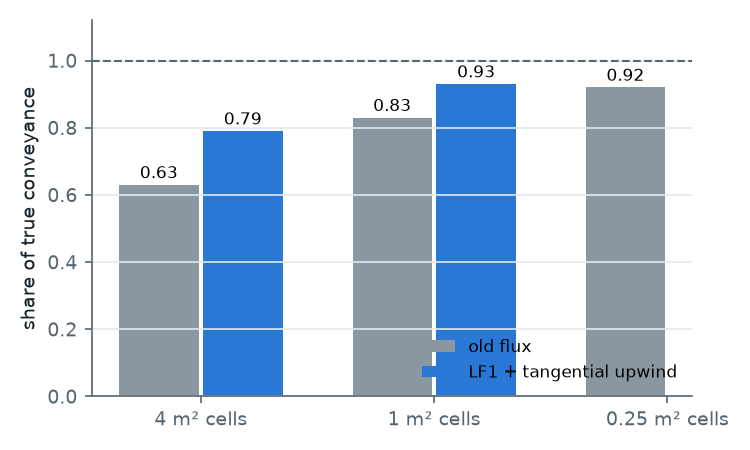
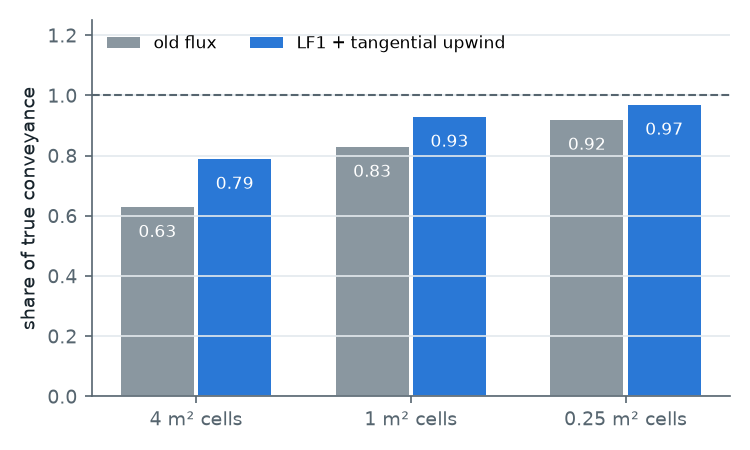
Subgrid status: straight-channel conveyance at 0.25 m2 with tangential upwind
trap_conv.py 0.25 --gpu LF=5 gives 0.97 of true conveyance (0.92 with the
old flux), so the band025TU reference is about 3% short, not 7%. Table,
text and the bias figure updated.

diff --git a/subgrid_bench/report_figures.py b/subgrid_bench/report_figures.py
@@ -455,18 +455,17 @@ def fig_cost(out):
 def fig_bias(out):
     fig, ax = plt.subplots(figsize=(5, 3))
     x = np.arange(3)
-    old, tu = [0.63, 0.83, 0.92], [0.79, 0.93, np.nan]
+    old, tu = [0.63, 0.83, 0.92], [0.79, 0.93, 0.97]
     ax.bar(x - 0.18, old, 0.34, color=OLD, label='old flux')
     ax.bar(x + 0.18, tu, 0.34, color=C1, label='LF1 + tangential upwind')
-    for i in range(3):
-        ax.text(x[i] - 0.18, old[i] + 0.02, f'{old[i]:.2f}', ha='center', fontsize=8)
-        if not np.isnan(tu[i]):
-            ax.text(x[i] + 0.18, tu[i] + 0.02, f'{tu[i]:.2f}', ha='center', fontsize=8)
+    for i in range(3):      # labels inside the bars: the tall ones would sit on the dashed line
+        ax.text(x[i] - 0.18, old[i] - 0.1, f'{old[i]:.2f}', ha='center', fontsize=8, color='white')
+        ax.text(x[i] + 0.18, tu[i] - 0.1, f'{tu[i]:.2f}', ha='center', fontsize=8, color='white')
     ax.axhline(1, color=MUTED, ls='--', lw=1)
     ax.set_xticks(x, ['4 m² cells', '1 m² cells', '0.25 m² cells'])
-    ax.set_ylim(0, 1.12)
+    ax.set_ylim(0, 1.25)
     ax.set_ylabel('share of true conveyance')
-    ax.legend(fontsize=8, loc='lower right')
+    ax.legend(fontsize=8, loc='upper left', ncol=2, frameon=False)
     ax.grid(axis='x', visible=False)
     fig.tight_layout()
     fig.savefig(f'{out}/bias.png')

diff --git a/claude/SUBGRID_STATUS.md b/claude/SUBGRID_STATUS.md
@@ -323,12 +323,13 @@ straight trapezoid the resolved channel carries this share of its true conveyanc
 |---|---|---|
 | 4 m² | 0.63 | 0.79 |
 | 1 m² | 0.83 | 0.93 |
-| 0.25 m² | 0.92 | — |
+| 0.25 m² | 0.92 | 0.97 |
 
 Breaklines and flow-aligned meshes don't fix it. Turn the switch on with
 `domain.set_tangential_upwind()` after `set_low_froude`, or `set_low_froude(5)`; in the
-bench, use `SUBGRID_LOW_FROUDE=5`. Even the corrected references are about 7% short of
-true conveyance, so the Manning normal depth stays the cleanest steady check. A side fix
+bench, use `SUBGRID_LOW_FROUDE=5`. Even with the switch a resolved channel is short of
+true conveyance, by about 7% at 1 m² and 3% at 0.25 m² (the reference's resolution), so the Manning normal depth stays the
+cleanest steady check. A side fix
 for breakline meshes ignoring the maximum triangle area is in PR #512 (issue #511).
 
 ## Next: better closures from the fine terrain
@@ -755,6 +756,7 @@ and run `ninja` in `build-gpu` with nvc on PATH.
 | 38698114 | P1 level from connected neighbours (off by default), a negative result; `grad_probe.py`; `SUBGRID_ALG` switch |
 | ddb3d4a5 | cell-problem conveyance tensor (off by default) with oversampling; first results |
 | 888a3522 | mesh edges on ridge crests (`--breaklines`), automatic crest detection (`crest_lines.py`, `--auto-breaklines`), mixed ground |
-| (this commit) | meandering-channel plain (`meander`, `mrough`, `--band`), `flat_channel.py`: the strips choke the channel, the tensor does not |
+| 24696516 | meandering-channel plain (`meander`, `mrough`, `--band`), `flat_channel.py`: the strips choke the channel, the tensor does not |
+| (this commit) | straight-channel conveyance at 0.25 m² with tangential upwind (0.97); bias figure updated |
 
 The branch is pushed to `origin` (the stoiver fork).
